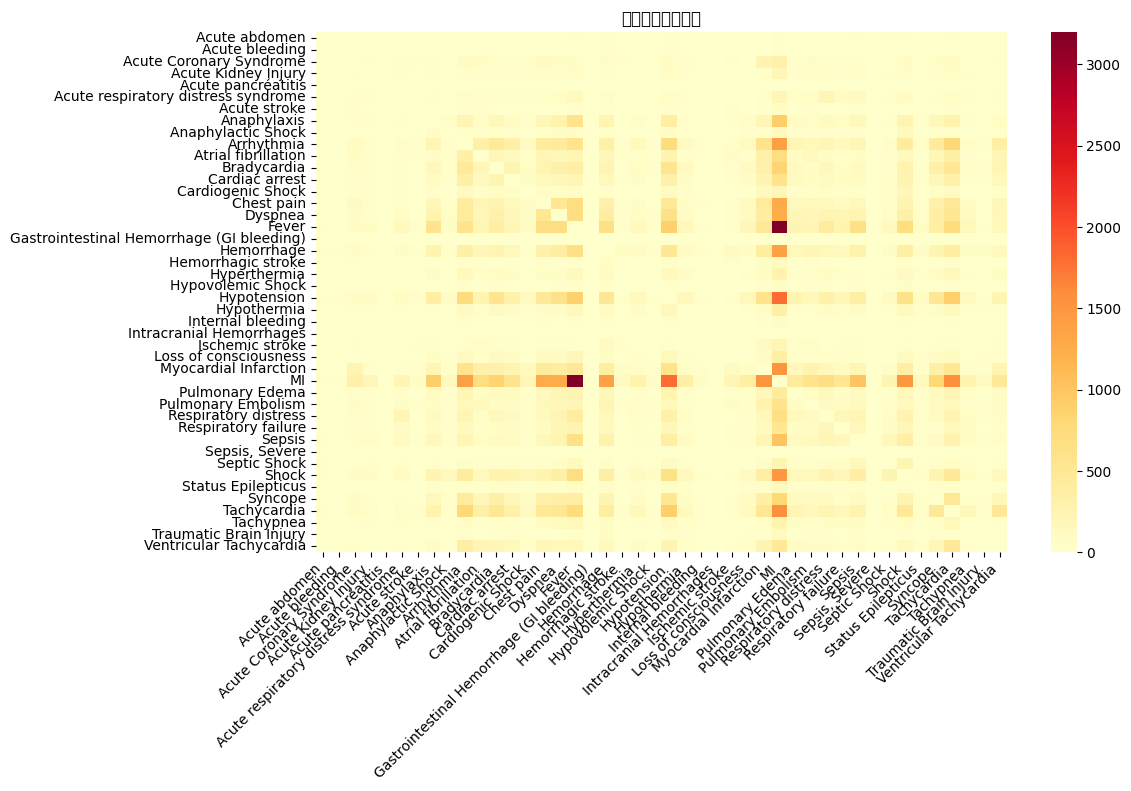
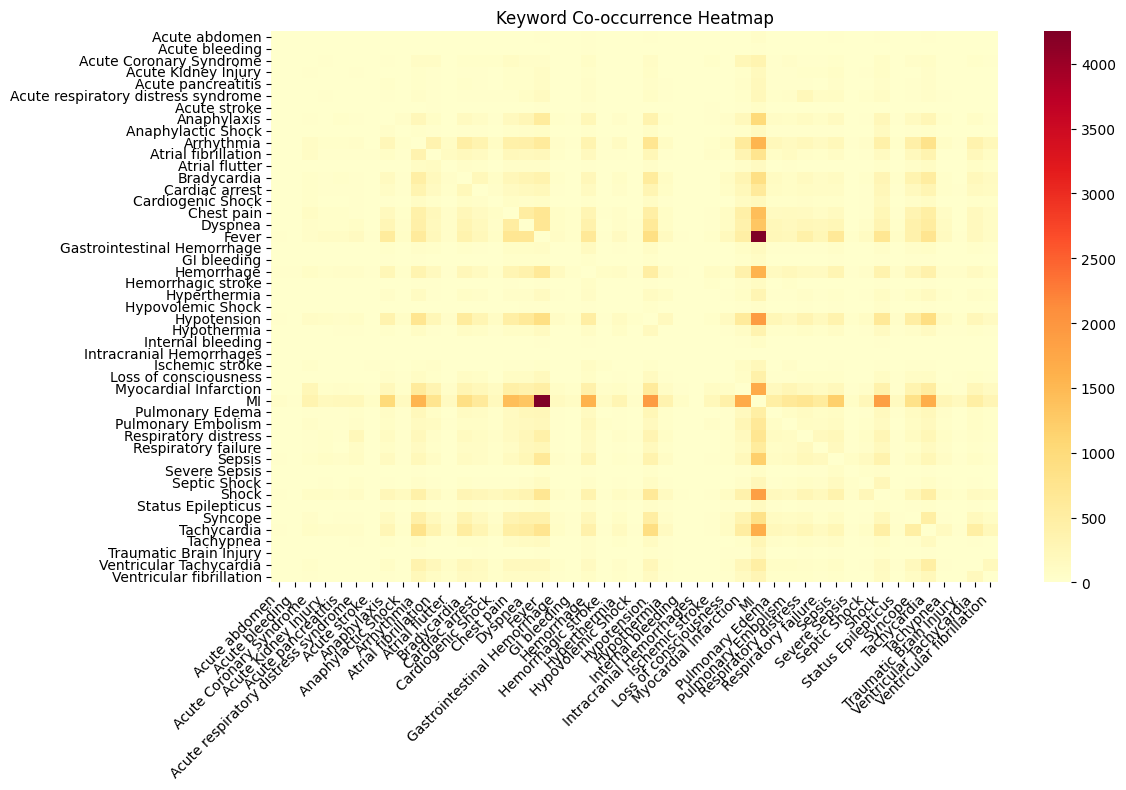
feat: update emergency subset analysis scripts and visualizations, enhance statistics, and fix keyword files

diff --git a/dataset/scripts/data_explorer.py b/dataset/scripts/data_explorer.py
@@ -7,65 +7,79 @@ from pathlib import Path
 import json
 
 def analyze_subset(file_path, keywords_path, output_dir="analysis"):
-    """分析子集數據質量和分布"""
+    """Analyze subset data quality and distribution"""
     print(f"\n{'='*50}")
-    print(f"開始分析數據集: {file_path}")
-    print(f"使用關鍵詞文件: {keywords_path}")
-    print(f"輸出目錄: {output_dir}")
+    print(f"Starting dataset analysis: {file_path}")
+    print(f"Using keywords file: {keywords_path}")
+    print(f"Output directory: {output_dir}")
     print(f"{'='*50}\n")
     
-    # 載入數據
-    print("1⃣ 載入數據...")
+    # Load data
+    print("1⃣ Loading data...")
     df = pd.read_csv(file_path)
     output_dir = Path(output_dir)
     
-    # 1. 基本統計
-    print("\n2⃣ 計算基本統計...")
-    print(f"總記錄數: {len(df)}")
+    # 1. Basic statistics
+    print("\n2⃣ Calculating basic statistics...")
+    total = len(df)
     df['text_length'] = df['clean_text'].str.len()
-    print(f"平均文本長度: {df['text_length'].mean():.2f}")
+    avg_len = df['text_length'].mean()
+    print(f"Total records: {total}")
+    print(f"Average text length: {avg_len:.2f}")
     
-    # 2. 關鍵字分析
-    print("\n3⃣ 進行關鍵字分析...")
+    # Initialize statistics dictionary with native Python types
+    stats = {
+        'basic_statistics': {
+            'total_records': int(total),
+            'avg_length': float(avg_len)
+        },
+        'keyword_statistics': {}
+    }
+    
+    # 2. Keyword analysis
+    print("\n3⃣ Performing keyword analysis...")
     with open(keywords_path, 'r') as f:
         keywords = [line.strip() for line in f if line.strip()]
-    print(f"載入了 {len(keywords)} 個關鍵字")
+    print(f"Loaded {len(keywords)} keywords")
     
-    keyword_stats = {}
+    # Count keywords and store in stats
     for keyword in keywords:
-        count = df['clean_text'].str.contains(keyword, case=False).sum()
-        keyword_stats[keyword] = count
-        print(f"  - {keyword}: {count} 條記錄")
+        cnt = df['clean_text'].str.contains(keyword, case=False).sum()
+        stats['keyword_statistics'][keyword] = int(cnt)
+        print(f"  - {keyword}: {cnt} records")
     
-    # 3. 可視化
-    print("\n4⃣ 生成可視化...")
+    # 3. Visualization
+    print("\n4⃣ Generating visualizations...")
     output_path = Path(output_dir) / "plots"
     output_path.mkdir(parents=True, exist_ok=True)
-    print(f"圖表將保存在: {output_path}")
+    print(f"Charts will be saved in: {output_path}")
     
-    # 3.1 關鍵詞分布圖
-    print("  - 生成關鍵詞分布圖...")
+    # 3.1 Keyword distribution chart
+    print("  - Generating keyword distribution chart...")
     plt.figure(figsize=(15, 8))
-    plt.bar(keyword_stats.keys(), keyword_stats.values())
+    plt.bar(stats['keyword_statistics'].keys(), stats['keyword_statistics'].values())
     plt.xticks(rotation=45, ha='right')
-    plt.title('關鍵詞匹配分布')
-    plt.xlabel('關鍵詞')
-    plt.ylabel('匹配數量')
+    # TODO: change the title to the name of the subset
+    plt.title('Keyword Distribution for Emergency Subset')
+    plt.xlabel('Keywords')
+    plt.ylabel('Match Count')
+    # TODO: change the name of the file to the name of the subset
     plt.savefig(output_path / "keyword_distribution_emergency_subset.png", bbox_inches='tight')
     plt.close()
     
-    # 3.2 文本長度分布
-    print("  - 生成文本長度分布圖...")
+    # 3.2 Text length distribution
+    print("  - Generating text length distribution...")
     plt.figure(figsize=(10, 6))
     df['text_length'].hist(bins=50)
-    plt.title('文本長度分布')
-    plt.xlabel('文本長度')
-    plt.ylabel('頻率')
-    plt.savefig(output_path / "text_length_dist.png", bbox_inches='tight')
+    plt.title('Text Length Distribution')
+    plt.xlabel('Text Length')
+    plt.ylabel('Frequency')
+    # TODO: change the name of the file to the name of the subset
+    plt.savefig(output_path / "text_length_dist_emergency_subset.png", bbox_inches='tight')
     plt.close()
     
-    # 3.3 關鍵詞共現分析
-    print("  - 生成關鍵詞共現熱力圖...")
+    # 3.3 Keyword co-occurrence analysis
+    print("  - Generating keyword co-occurrence heatmap...")
     cooccurrence_matrix = np.zeros((len(keywords), len(keywords)))
     for text in df['clean_text']:
         present_keywords = [k for k in keywords if k.lower() in text.lower()]
@@ -79,40 +93,31 @@ def analyze_subset(file_path, keywords_path, output_dir="analysis"):
                 xticklabels=keywords, 
                 yticklabels=keywords,
                 cmap='YlOrRd')
-    plt.title('關鍵詞共現熱力圖')
+    plt.title('Keyword Co-occurrence Heatmap')
     plt.xticks(rotation=45, ha='right')
     plt.tight_layout()
     # TODO: change the name of the file to the name of the subset
     plt.savefig(output_path / "keyword_cooccurrence_emergency_subset.png", bbox_inches='tight')
     plt.close()
     
-    # 4. 保存統計數據
-    print("\n5⃣ 保存統計數據...")
+    # 4. Save statistics
+    print("\n5⃣ Saving statistics...")
     stats_path = Path(output_dir) / "stats"
     stats_path.mkdir(parents=True, exist_ok=True)
-    
-    stats = {
-        '基本統計': {
-            '總記錄數': len(df),
-            '平均文本長度': float(df['text_length'].mean()),
-            '文本長度分位數': df['text_length'].describe().to_dict()
-        },
-        '關鍵詞統計': keyword_stats
-    }
-    
     # TODO: change the name of the file to the name of the subset
     stats_file = stats_path / "analysis_stats_emergency_subset.json"
+    
     with open(stats_file, 'w', encoding='utf-8') as f:
         json.dump(stats, f, indent=2, ensure_ascii=False)
-    print(f"統計數據已保存到: {stats_file}")
+    print(f"Statistics saved to: {stats_file}")
     
-    print(f"\n✅ 分析完成！所有結果已保存到 {output_dir} 目錄")
+    print(f"\n✅ Analysis complete! All results saved to {output_dir} directory")
 
 if __name__ == "__main__":
-    # 設定文件路徑
+    # Set file paths
     emergency_subset = "../dataset/emergency/emergency_subset.csv"
     emergency_keywords = "../keywords/emergency_keywords.txt"
     output_dir = "../analysis"
     
-    # 執行分析
+    # Run analysis
     analyze_subset(emergency_subset, emergency_keywords, output_dir)

diff --git a/dataset/scripts/01_filter_emergency.py b/dataset/scripts/01_filter_emergency.py
@@ -4,51 +4,51 @@ import os
 import re
 import pandas as pd
 
-# 工具函数：载入关键字并打印进度
+# Function: Load keywords and print progress
 def load_keywords(path):
-    print(f"📥 读取关键字：{path}")
+    print(f"📥 Loading keywords from: {path}")
     with open(path, "r", encoding="utf-8") as f:
         kws = [line.strip() for line in f if line.strip()]
-    print(f"   共载入 {len(kws)} 个关键字")
+    print(f"   Loaded {len(kws)} keywords")
     return kws
 
-# Step 1: 读取原始数据
-print("1⃣ 读取原始数据…")
+# Step 1: Read source data
+print("1⃣ Reading source data...")
 source_path = "../dataset/guidelines_source_filtered.jsonl"
 df = pd.read_json(source_path, lines=True)
-print(f"   已读取 {len(df)} 条记录")
+print(f"   Loaded {len(df)} records")
 
-# Step 2: 载入急症关键字并匹配
-print("2⃣ 读取急症关键字并开始匹配…")
+# Step 2: Load emergency keywords and match
+print("2⃣ Loading emergency keywords and matching...")
 keywords = load_keywords("../keywords/emergency_keywords.txt")
-pattern = r"\b(?:" + "|".join(keywords) + r")\b"  # 使用非捕獲組 (?:...)
+pattern = r"\b(?:" + "|".join(keywords) + r")\b"  # Using non-capturing groups (?:...)
 
-# 匹配關鍵詞
+# Match keywords
 df["matched"] = (
     df["clean_text"]
-      .fillna("")  # 把 NaN 变成 ""
+      .fillna("")  # Convert NaN to empty string
       .str.findall(pattern, flags=re.IGNORECASE)
       .apply(lambda lst: "|".join(lst) if lst else "")
 )
 df["has_emergency"] = df["matched"].str.len() > 0
 cnt_em = df["has_emergency"].sum()
 
-# 计算平均匹配数（注意转义）
+# Calculate average matches (with escape)
 avg_matches = (
     df[df["has_emergency"]]["matched"]
-      .str.count(r"\|")  # 这里要转义
+      .str.count(r"\|")  # Escape the pipe
       .add(1)
       .mean()
 )
 
-print(f"   匹配到 {cnt_em} 条急症相关记录")
-print(f"   其中平均每条记录包含 {avg_matches:.2f} 个关键词")
+print(f"   Matched {cnt_em} emergency-related records")
+print(f"   Average keywords per record: {avg_matches:.2f}")
 
-# Step 3: 保存急症子集
-print("3⃣ 保存急症子集…")
+# Step 3: Save emergency subset
+print("3⃣ Saving emergency subset...")
 out_dir = "../dataset/emergency"
 os.makedirs(out_dir, exist_ok=True)
 subset = df[df["has_emergency"]]
 subset.to_json(f"{out_dir}/emergency_subset.jsonl", orient="records", lines=True)
 subset.to_csv(f"{out_dir}/emergency_subset.csv", index=False)
-print(f"✅ 完成！已生成急症子集，共 {len(subset)} 条记录，保存在 `{out_dir}`")
+print(f"✅ Complete! Generated emergency subset with {len(subset)} records, saved in `{out_dir}`")
